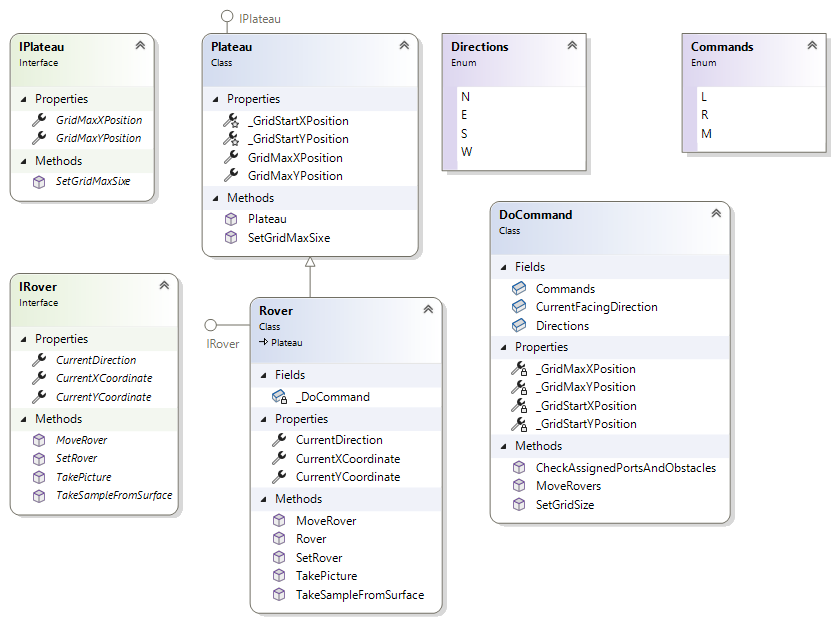
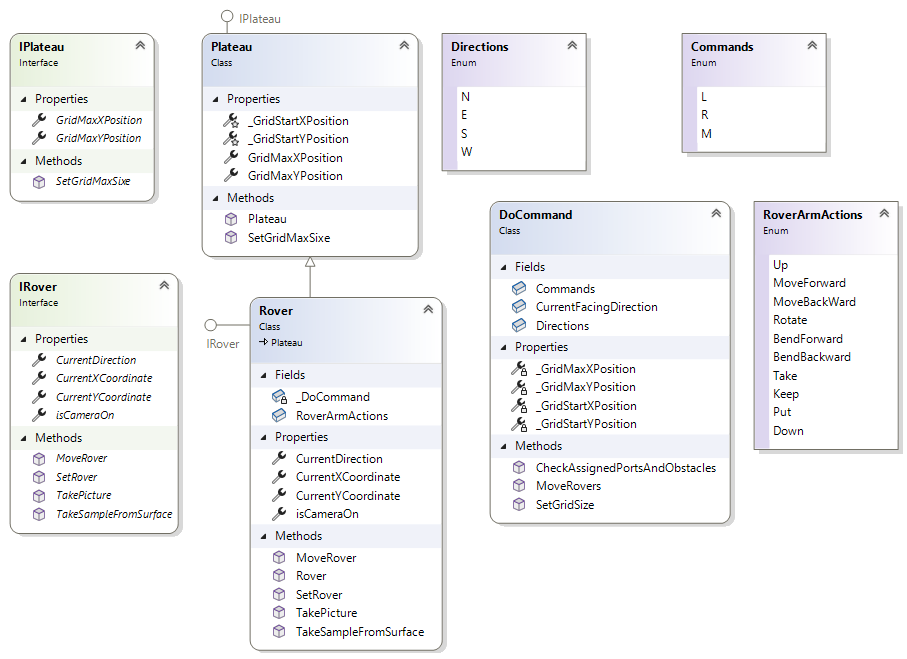
Added New Enum for RoverArmActions and added code to do the same. Its just a basic code. Modified Class Diagram also.

Changed region(s): [[0.0, 0.0, 0.9964, 1.0], [0.7473, 0.0305, 0.9964, 0.2749]]

diff --git a/MarsRoverApp/Models/Rover.cs b/MarsRoverApp/Models/Rover.cs
@@ -17,7 +17,11 @@ namespace MarsRoverApp.Models
  
         public char CurrentDirection { get; private set; }
 
+        public bool isCameraOn { get; private set; }
+
+        public RoverArmActions RoverArmActions;
         private DoCommand _DoCommand = new();
+
 
         public Rover() : base()
         {
@@ -26,6 +30,7 @@ namespace MarsRoverApp.Models
             CurrentDirection = 'N';
             _GridStartXPosition = 0;
             _GridStartYPosition = 0;
+            isCameraOn = false;
         }
 
         public string SetRover(string strCurrentPosition)
@@ -66,11 +71,20 @@ namespace MarsRoverApp.Models
 
         public string TakePicture()
         {
+            isCameraOn = true;
             return "Success";
         }
 
         public string TakeSampleFromSurface()
         {
+            var ArmActions = new List<string>();
+            ArmActions.Add(RoverArmActions.Up.ToString());
+            ArmActions.Add(RoverArmActions.MoveForward.ToString());
+            ArmActions.Add(RoverArmActions.BendForward.ToString());
+            ArmActions.Add(RoverArmActions.Take.ToString());
+            ArmActions.Add(RoverArmActions.Keep.ToString());
+            ArmActions.Add(RoverArmActions.Put.ToString());
+            ArmActions.Add(RoverArmActions.Down.ToString());
             return "Success";
         }
     }

diff --git a/MarsRoverApp/Program.cs b/MarsRoverApp/Program.cs
@@ -1,5 +1,6 @@
 // See https://aka.ms/new-console-template for more information
 using System;
+using System.Drawing;
 using MarsRoverApp;
 using MarsRoverApp.Models;
 
@@ -9,13 +10,21 @@ Plateau Plateau = new Plateau();
 
 Rover RoverA = new Rover();
 Rover RoverB = new Rover();
+var ObstaclePoints = new List<Point>();
 Plateau.SetGridMaxSixe(5, 5);
+ObstaclePoints = Plateau.ObstaclesInfo();
+foreach(var oPoint in ObstaclePoints)
+{
+    Console.WriteLine($"Obstacles Info: {oPoint.X}, {oPoint.Y}");
+}
 RoverA.SetGridMaxSixe(Plateau.GridMaxXPosition, Plateau.GridMaxYPosition);
 RoverB.SetGridMaxSixe(Plateau.GridMaxXPosition, Plateau.GridMaxYPosition);
 
 Console.WriteLine($"{Plateau.GridMaxXPosition}, {Plateau.GridMaxYPosition}");
 string sOutput;
 sOutput=RoverA.SetRover("12N");
+Console.WriteLine(sOutput);
+sOutput=RoverA.TakeSampleFromSurface();
 Console.WriteLine(sOutput);
 sOutput = RoverA.MoveRover("LMLMLMLMM");
 Console.WriteLine(sOutput);

diff --git a/MarsRoverApp/Models/Plateau.cs b/MarsRoverApp/Models/Plateau.cs
@@ -26,5 +26,18 @@ namespace MarsRoverApp.Models
             GridMaxXPosition = MaxX;
             GridMaxYPosition = MaxY;
         }
+
+        public List<Point> ObstaclesInfo()
+        {
+            var ObstaclePoints = new List<Point>();
+            Point ObstaclePoint = new Point();
+            ObstaclePoint.X = 4;
+            ObstaclePoint.Y = 4;
+            ObstaclePoints.Add(ObstaclePoint);
+            ObstaclePoint.X = 3;
+            ObstaclePoint.Y = 5;
+            ObstaclePoints.Add(ObstaclePoint);
+            return ObstaclePoints;
+        }
     }
 }

diff --git a/MarsRoverApp.Tests/MoveRoverTests.cs b/MarsRoverApp.Tests/MoveRoverTests.cs
@@ -194,4 +194,18 @@ public class MoveRoverTests
     {
         _RoverB.TakeSampleFromSurface().Should().Be("Success");
     }
+
+    [Test]
+    public void Get_Obstacles_Information_For_Plateau()
+    {
+        var ObstaclePoints = new List<Point>();
+        ObstaclePoints = _Plateau.ObstaclesInfo();
+        var i = 0;
+        foreach (var oPoint in ObstaclePoints)
+        {
+            ObstaclePoints[i].X.Should().Be(oPoint.X);
+            ObstaclePoints[i].Y.Should().Be(oPoint.Y);
+            i += 1;
+        }
+    }
 }

diff --git a/MarsRoverApp/Models/RoverArmActions.cs b/MarsRoverApp/Models/RoverArmActions.cs
@@ -1,0 +1,22 @@
+using System;
+using System.Collections.Generic;
+using System.Linq;
+using System.Text;
+using System.Threading.Tasks;
+
+namespace MarsRoverApp.Models
+{
+    public enum RoverArmActions
+    {
+        Up,
+        MoveForward,
+        MoveBackWard,
+        Rotate,
+        BendForward,
+        BendBackward,
+        Take,
+        Keep,
+        Put,
+        Down
+    }
+}

diff --git a/MarsRoverApp/Models/IRover.cs b/MarsRoverApp/Models/IRover.cs
@@ -11,6 +11,7 @@ namespace MarsRoverApp.Models
         int CurrentXCoordinate { get; }
         int CurrentYCoordinate { get; }
         char CurrentDirection { get; }
+        bool isCameraOn { get; }
 
         string SetRover(string strCurrentPosition);
         string MoveRover(string strCommands);

diff --git a/MarsRoverApp/Models/IPlateau.cs b/MarsRoverApp/Models/IPlateau.cs
@@ -12,5 +12,6 @@ namespace MarsRoverApp
         int GridMaxXPosition { get; }
 
         void SetGridMaxSixe(int MaxX, int MaxY);
+        List<Point> ObstaclesInfo();
     }
 }
